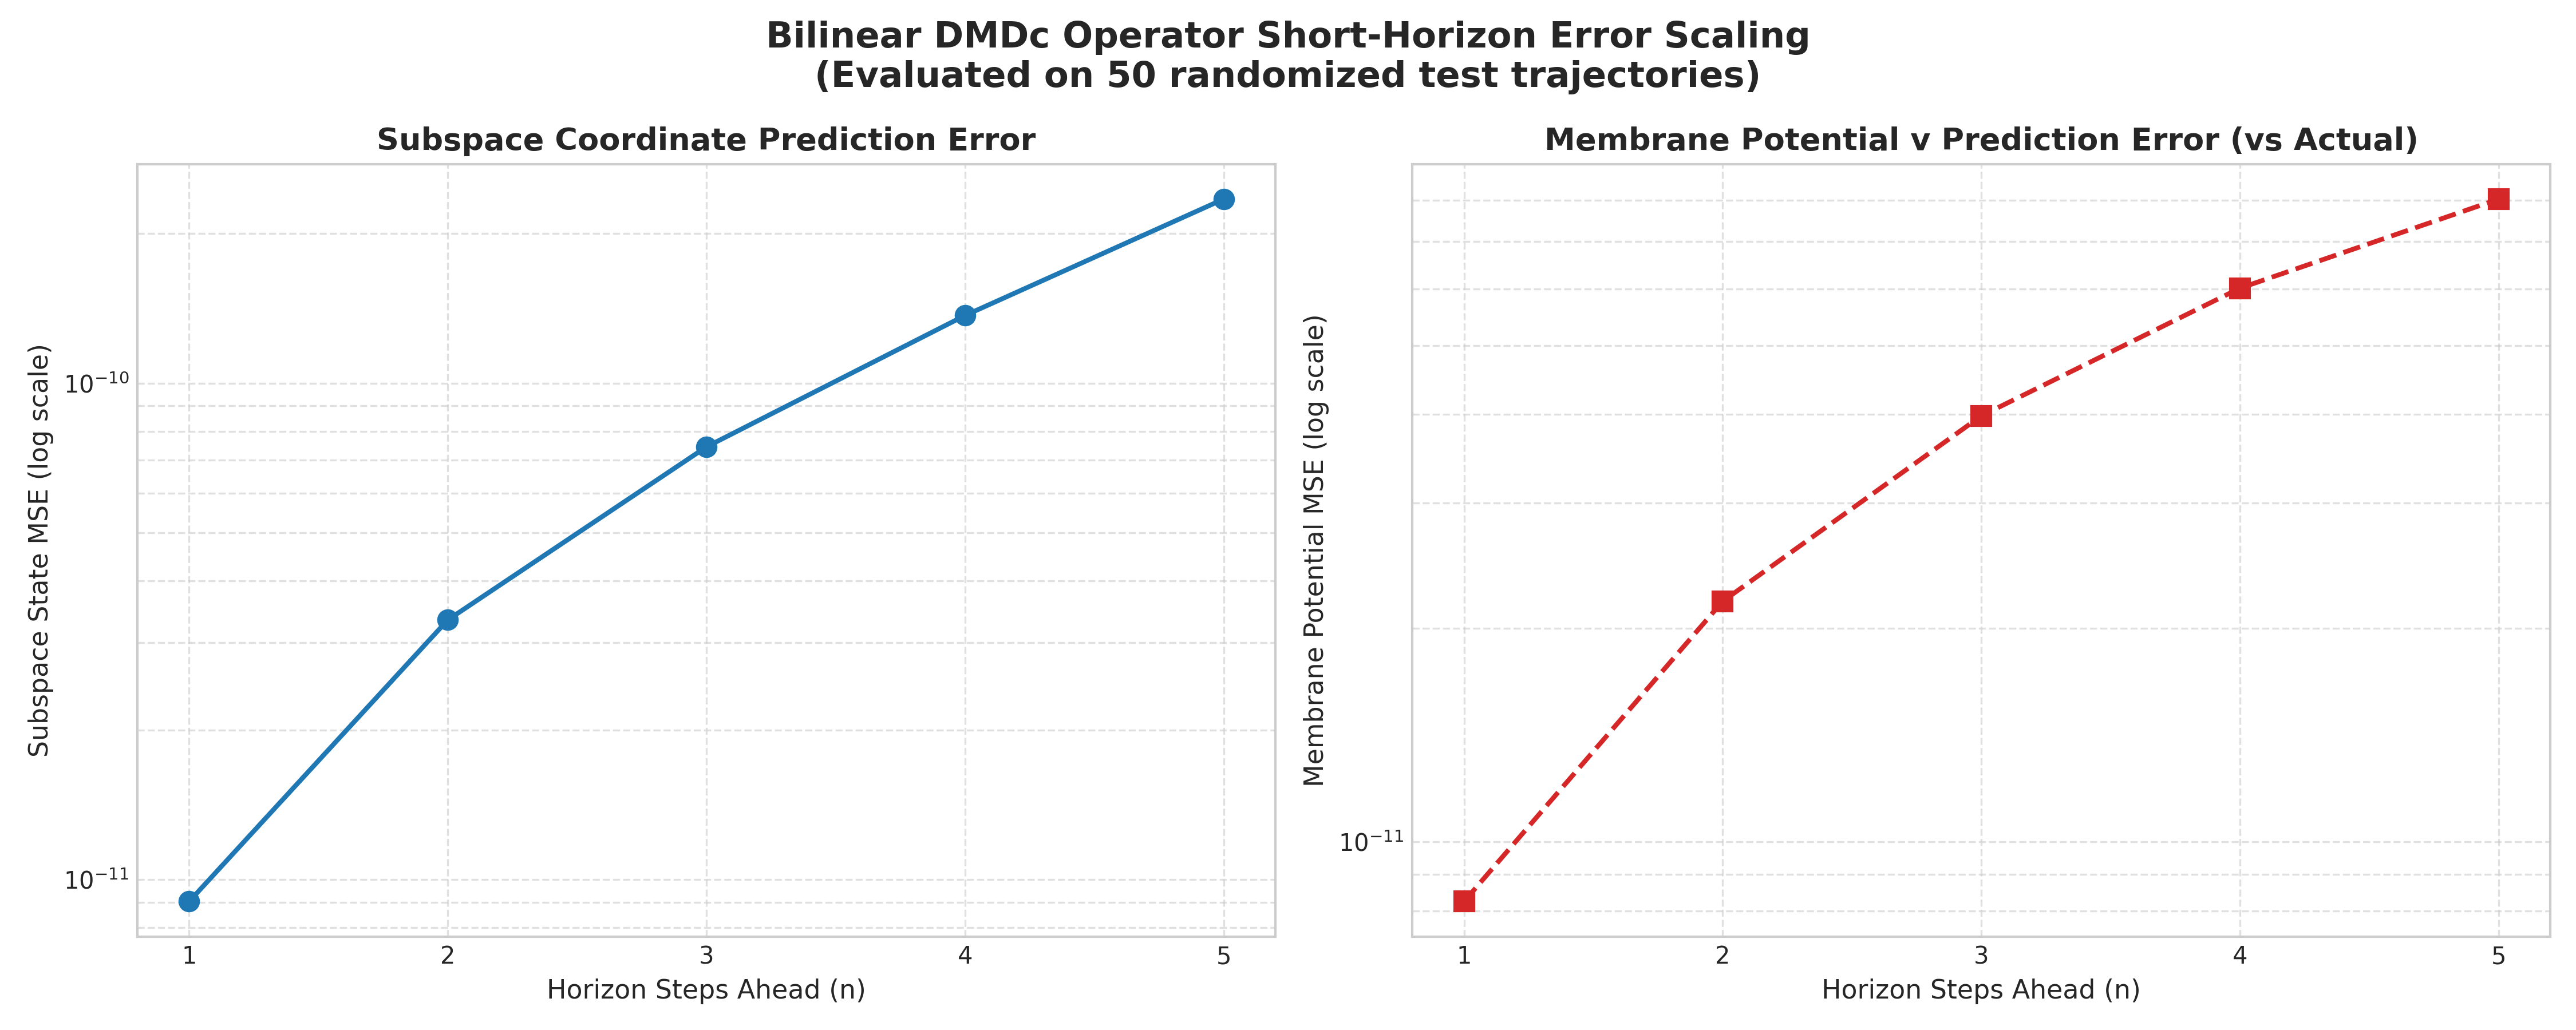
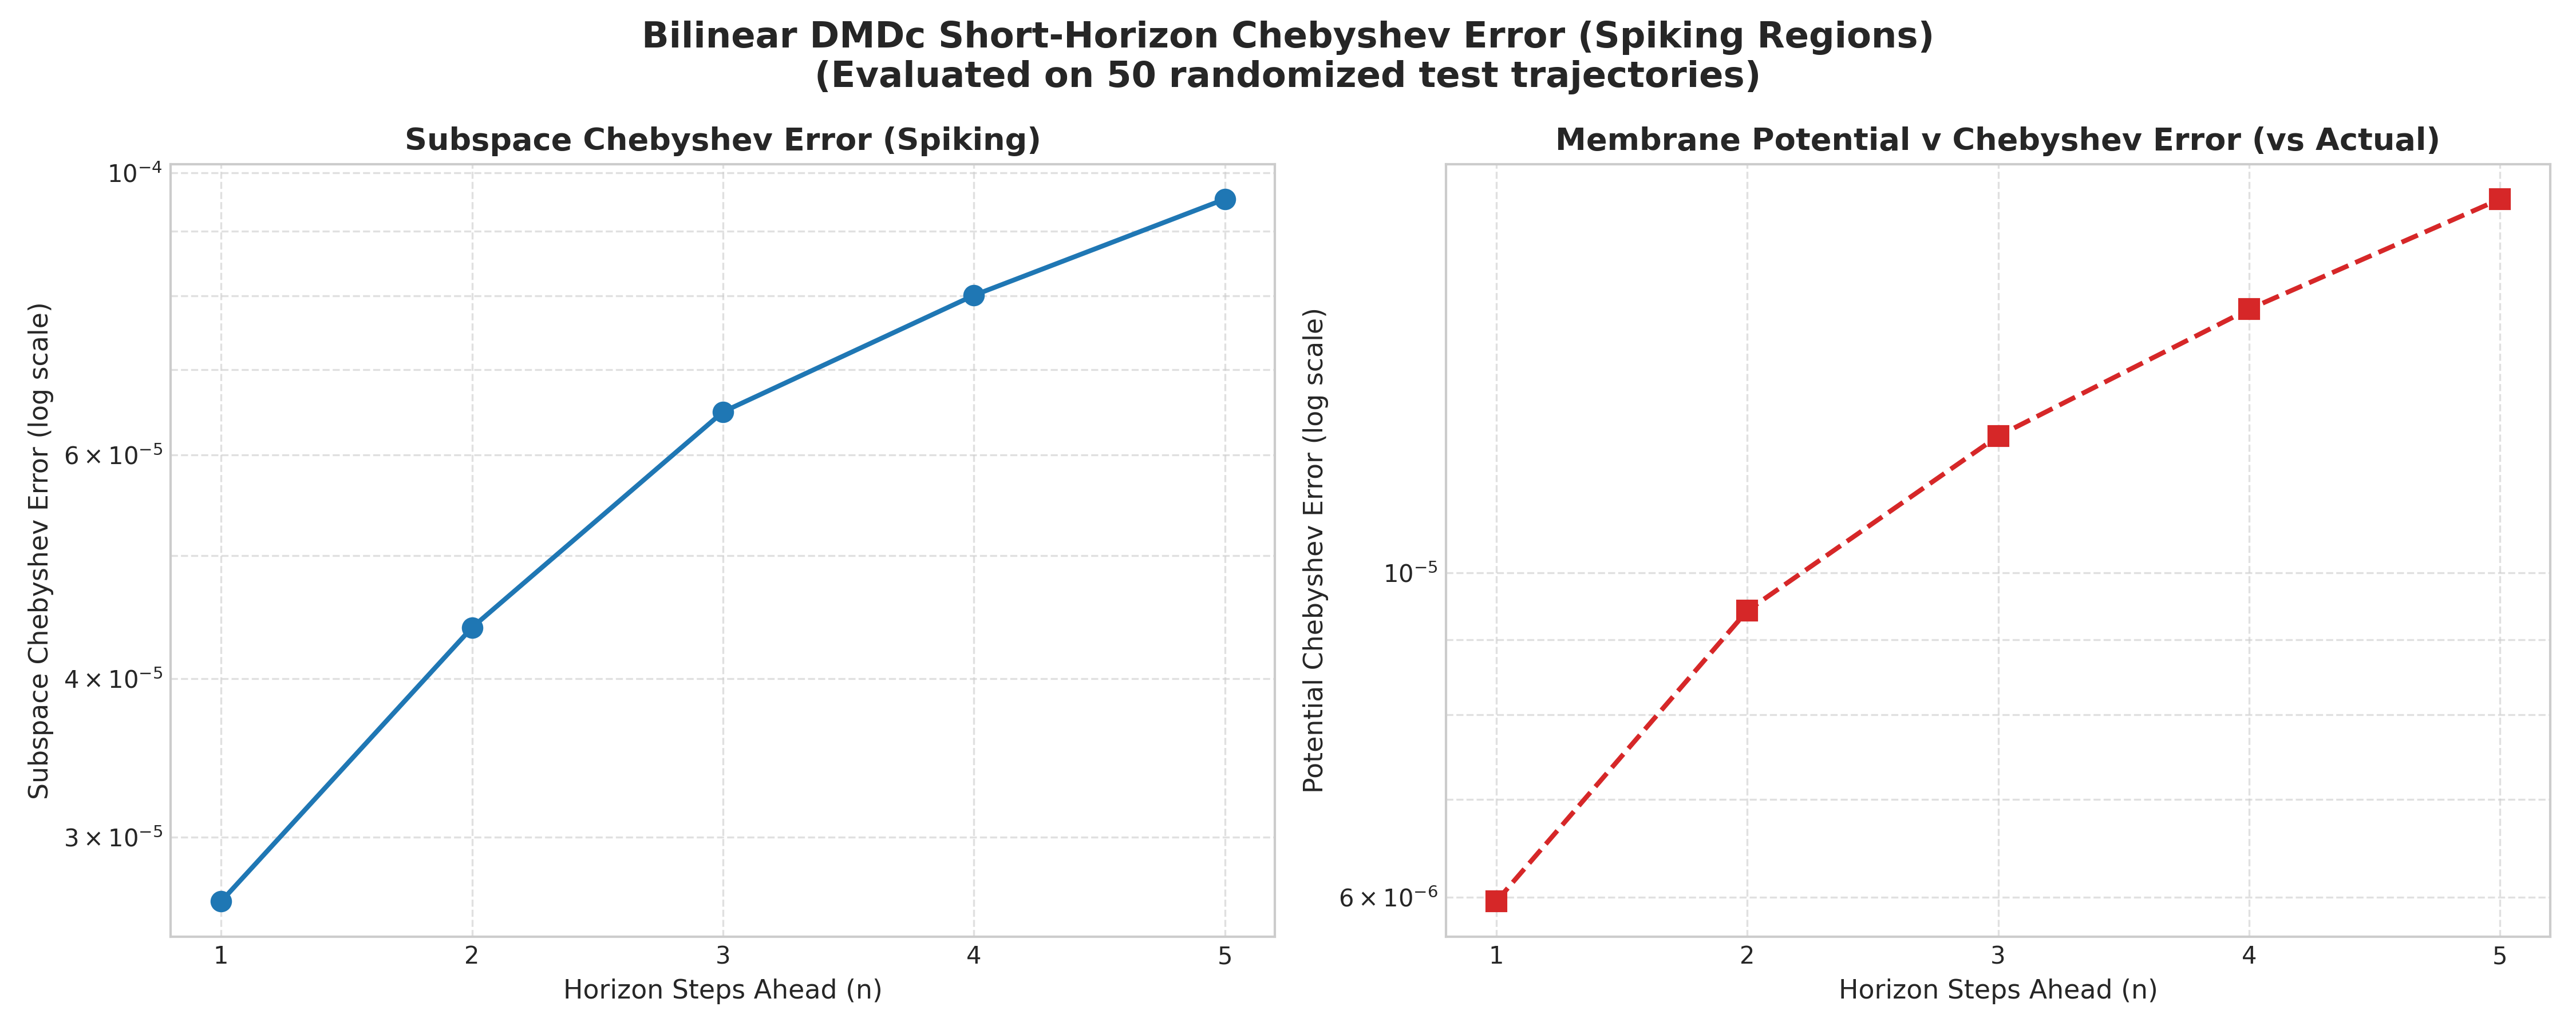
Update short-horizon validation to audit spiking regions using Chebyshev norm

diff --git a/one_step_dynamics_testing.py b/one_step_dynamics_testing.py
@@ -43,9 +43,10 @@ def main():
     parser.add_argument('--dmd-H', type=int, default=70)
     parser.add_argument('--dmd-r', type=int, default=12)
     parser.add_argument('--dmd-p', type=int, default=20)
-    parser.add_argument('--t-max', type=float, default=100.0)
-    parser.add_argument('--dt', type=float, default=0.1)
+    parser.add_argument('--t-max', type=float, default=10.0)
+    parser.add_argument('--dt', type=float, default=0.01)
     parser.add_argument('--no-plot', action='store_true')
+    parser.add_argument('--spike-threshold', type=float, default=0.0)
     args = parser.parse_args()
     
     n_steps = int(args.t_max / args.dt) + 1
@@ -78,7 +79,7 @@ def main():
     ys_te = simulate_fhn_batch(y0_te, t_span, 'sine', I_val_te)
     u_te = jax.vmap(lambda iv: get_external_current(t_span, 'sine', iv))(I_val_te)
     
-    print("Evaluating short-horizon prediction errors on test batch...")
+    print("Evaluating short-horizon prediction errors on test batch (Spiking Regions & Chebyshev Norm)...")
     K = n_steps - args.dmd_H + 1
     
     X_batch = make_hankel_batch(ys_te[:, :, 0], args.dmd_H, K)
@@ -86,9 +87,9 @@ def main():
     Z_batch = jnp.einsum('ij,mjk->mik', Ur.T, X_m_batch)
     Uc_batch = u_te[:, args.dmd_H - 1 : args.dmd_H + K - 2]
     
-    subspace_errors = []
-    potential_proj_errors = []
-    potential_act_errors = []
+    subspace_cheb_errors = []
+    potential_proj_cheb_errors = []
+    potential_act_cheb_errors = []
     
     for n in range(1, 6):
         z_preds_all, z_targets_all = predict_n_steps_batch(Z_batch, Uc_batch, A_tilde, B_tilde, C_tilde, n)
@@ -97,30 +98,36 @@ def main():
         v_targets_reconstructed = jnp.einsum('j,mjk->mk', Ur[0, :], z_targets_all)
         v_targets_actual = X_m_batch[:, 0, n:]
         
-        sub_err = float(jnp.mean((z_preds_all - z_targets_all) ** 2))
-        pot_proj_err = float(jnp.mean((v_preds_all - v_targets_reconstructed) ** 2))
-        pot_act_err = float(jnp.mean((v_preds_all - v_targets_actual) ** 2))
+        mask = (v_targets_actual >= args.spike_threshold)
         
-        subspace_errors.append(sub_err)
-        potential_proj_errors.append(pot_proj_err)
-        potential_act_errors.append(pot_act_err)
+        abs_sub_diff = jnp.abs(z_preds_all - z_targets_all) * mask[:, jnp.newaxis, :]
+        abs_proj_diff = jnp.abs(v_preds_all - v_targets_reconstructed) * mask
+        abs_act_diff = jnp.abs(v_preds_all - v_targets_actual) * mask
         
-    print("\nShort-Horizon Prediction Errors on Unseen Test Dataset:")
+        sub_cheb = float(jnp.max(abs_sub_diff))
+        pot_proj_cheb = float(jnp.max(abs_proj_diff))
+        pot_act_cheb = float(jnp.max(abs_act_diff))
+        
+        subspace_cheb_errors.append(sub_cheb)
+        potential_proj_cheb_errors.append(pot_proj_cheb)
+        potential_act_cheb_errors.append(pot_act_cheb)
+        
+    print("\nShort-Horizon Chebyshev Norm Errors on Spiking Regions (v >= 0.0):")
     for n in range(5):
-        print(f"Horizon Step {n+1:d} | Subspace MSE: {subspace_errors[n]:.6e} | Projected Potential MSE: {potential_proj_errors[n]:.6e} | Actual Potential MSE: {potential_act_errors[n]:.6e}")
+        print(f"Horizon Step {n+1:d} | Subspace Chebyshev: {subspace_cheb_errors[n]:.6e} | Projected Potential Chebyshev: {potential_proj_cheb_errors[n]:.6e} | Actual Potential Chebyshev: {potential_act_cheb_errors[n]:.6e}")
         
-    print("\nMPC Suitability Analysis:")
-    if potential_act_errors[0] < 1e-6:
-        print("  - One-step potential prediction error is exceptionally small (< 10^-6).")
-        print("  - The Bilinear DMDc model captures the one-step dynamics perfectly.")
+    print("\nMPC Suitability Analysis (Chebyshev Norm):")
+    if potential_act_cheb_errors[0] < 1e-4:
+        print("  - One-step potential worst-case error is exceptionally small (< 10^-4).")
+        print("  - The Bilinear DMDc model captures the one-step spiking dynamics perfectly.")
     else:
-        print(f"  - One-step potential prediction error is: {potential_act_errors[0]:.6e}")
+        print(f"  - One-step potential worst-case error is: {potential_act_cheb_errors[0]:.6e}")
         
-    if potential_act_errors[4] < 1e-4:
-        print("  - 5-step recursive prediction error is extremely small (< 10^-4).")
+    if potential_act_cheb_errors[4] < 1e-2:
+        print("  - 5-step recursive worst-case prediction error is extremely small (< 10^-2).")
         print("  - The learned operators are highly suited for real-time Model Predictive Control (MPC).")
     else:
-        print(f"  - 5-step recursive potential error is: {potential_act_errors[4]:.6e}")
+        print(f"  - 5-step recursive worst-case potential error is: {potential_act_cheb_errors[4]:.6e}")
         
     if not args.no_plot:
         if 'seaborn-v0_8-whitegrid' in plt.style.available:
@@ -130,28 +137,28 @@ def main():
         fig, (ax1, ax2) = plt.subplots(1, 2, figsize=(15, 6))
         
         steps = np.arange(1, 6)
-        ax1.plot(steps, subspace_errors, 'o-', color='#1f77b4', linewidth=2.0, markersize=8)
+        ax1.plot(steps, subspace_cheb_errors, 'o-', color='#1f77b4', linewidth=2.0, markersize=8)
         ax1.set_yscale('log')
-        ax1.set_title("Subspace Coordinate Prediction Error", fontsize=13, fontweight='bold')
+        ax1.set_title("Subspace Chebyshev Error (Spiking)", fontsize=13, fontweight='bold')
         ax1.set_xlabel("Horizon Steps Ahead (n)", fontsize=11)
-        ax1.set_ylabel("Subspace State MSE (log scale)", fontsize=11)
+        ax1.set_ylabel("Subspace Chebyshev Error (log scale)", fontsize=11)
         ax1.set_xticks(steps)
         ax1.grid(True, which="both", linestyle='--', alpha=0.6)
         
-        ax2.plot(steps, potential_act_errors, 's--', color='#d62728', linewidth=2.0, markersize=8)
+        ax2.plot(steps, potential_act_cheb_errors, 's--', color='#d62728', linewidth=2.0, markersize=8)
         ax2.set_yscale('log')
-        ax2.set_title("Membrane Potential v Prediction Error (vs Actual)", fontsize=13, fontweight='bold')
+        ax2.set_title("Membrane Potential v Chebyshev Error (vs Actual)", fontsize=13, fontweight='bold')
         ax2.set_xlabel("Horizon Steps Ahead (n)", fontsize=11)
-        ax2.set_ylabel("Membrane Potential MSE (log scale)", fontsize=11)
+        ax2.set_ylabel("Potential Chebyshev Error (log scale)", fontsize=11)
         ax2.set_xticks(steps)
         ax2.grid(True, which="both", linestyle='--', alpha=0.6)
         
-        plt.suptitle(f"Bilinear DMDc Operator Short-Horizon Error Scaling\n(Evaluated on {args.test_batch} randomized test trajectories)", 
+        plt.suptitle(f"Bilinear DMDc Short-Horizon Chebyshev Error (Spiking Regions)\n(Evaluated on {args.test_batch} randomized test trajectories)", 
                      fontsize=15, fontweight='bold', y=0.98)
         plt.tight_layout()
         save_path = os.path.join(plots_dir, 'fhn_short_horizon_errors.png')
         plt.savefig(save_path, dpi=300)
-        print(f"\nSaved Error scaling visualization plot to {save_path}")
+        print(f"\nSaved Chebyshev error scaling visualization plot to {save_path}")
         plt.close()
 
 if __name__ == '__main__':